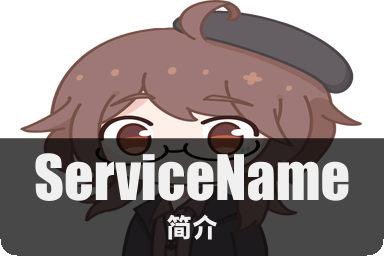
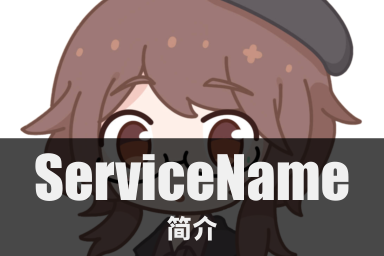
自适应比例

diff --git a/title.go b/title.go
@@ -4,7 +4,6 @@ import (
 	"image"
 
 	"github.com/FloatTech/gg"
-	"github.com/FloatTech/imgfactory"
 )
 
 // DrawTitle 绘制标题
@@ -24,7 +23,7 @@ func (t *Title) DrawTitle() (imgs image.Image, err error) {
 	canvas.SetRGBA255(0, 0, 0, 153)
 	canvas.Fill()
 
-	fontsize1, fontsize2 := 108.0+t.TitleFontOffsetPoint, 54.0+t.TextFontOffsetPoint
+	fontsize1, fontsize2, fontsize3 := 108.0+t.TitleFontOffsetPoint, 72+t.TextFontOffsetPoint, 54.0+t.TextFontOffsetPoint
 	// 加载size为108的字体
 	err = canvas.ParseFontFace(t.TitleFontData, fontsize1)
 	if err != nil {
@@ -33,37 +32,35 @@ func (t *Title) DrawTitle() (imgs image.Image, err error) {
 
 	// 绘制标题
 	canvas.SetRGBA255(250, 250, 250, 255)
-	stringwight, _ := canvas.MeasureString(t.LeftTitle)
-	canvas.DrawStringAnchored(t.LeftTitle, (220-(fontsize1+fontsize2)*72/96)*0.33+stringwight/2+t.OffsetX, 30+40+(220-(fontsize1+fontsize2)*72/96)*0.33+fontsize1*72/96*0.5+t.OffsetY, 0.5, 0.5)
+	canvas.DrawStringAnchored(t.LeftTitle, (220-fontsize1-fontsize3)/3+t.OffsetX, 30+40+(220-fontsize1-fontsize3)/3+fontsize1/2+t.OffsetY, 0, 0.5)
 
 	// 加载size为54的字体
-	err = canvas.ParseFontFace(t.TextFontData, fontsize2)
+	err = canvas.ParseFontFace(t.TextFontData, fontsize3)
 	if err != nil {
 		return
 	}
 
 	canvas.SetRGBA255(250, 250, 250, 255)
 	// 绘制副标题
-	stringwight, _ = canvas.MeasureString(t.LeftSubtitle)
-	canvas.DrawStringAnchored(t.LeftSubtitle, 3+(220-(fontsize1+fontsize2)*72/96)*0.33+stringwight/2+t.OffsetX, 30+40+(220-(fontsize1+fontsize2)*72/96)*0.66+fontsize1*72/96+fontsize2*72/96*0.5+t.OffsetY, 0.5, 0.5)
+	canvas.DrawStringAnchored(t.LeftSubtitle, 3+(220-fontsize1-fontsize3)/3+t.OffsetX, 30+40+(220-fontsize1-fontsize3)/3*2+fontsize1+fontsize3/2+t.OffsetY, 0, 0.5)
 
-	// 加载icon并绘制
-	var icon *imgfactory.Factory
-	icon, err = imgfactory.LoadFirstFrame(t.ImagePath, 220, 220)
+	// 加载icon并绘制 高限制220
+	var icon image.Image
+	icon, err = gg.LoadImage(t.ImagePath)
 	if err != nil {
 		return
 	}
-	canvas.DrawImage(icon.Image(), int(DefaultWidth)-icon.W(), 40+30)
+	sc := 220 / float64(icon.Bounds().Dy())
+	canvas.ScaleAbout(sc, sc, DefaultWidth-float64(icon.Bounds().Dx())*sc/2, 40+30+220/2)
+	canvas.DrawImageAnchored(icon, int(DefaultWidth)-int(float64(icon.Bounds().Dx())*sc/2), 40+30+220/2, 0.5, 0.5)
+	canvas.Identity()
 	// 加载size为72的字体
-	fontsize1 = 72 + t.TextFontOffsetPoint
-	err = canvas.ParseFontFace(t.TextFontData, fontsize1)
+	err = canvas.ParseFontFace(t.TextFontData, fontsize2)
 	if err != nil {
 		return
 	}
-	stringwight, _ = canvas.MeasureString(t.RightTitle)
-	canvas.DrawStringAnchored(t.RightTitle, DefaultWidth-25-float64(icon.W())-stringwight/2+t.OffsetX, 30+40+(220-fontsize1*72/96*2)*0.33+fontsize1*72/96*0.5+t.OffsetY, 0.5, 0.5)
-	stringwight, _ = canvas.MeasureString(t.RightSubtitle)
-	canvas.DrawStringAnchored(t.RightSubtitle, DefaultWidth-25-float64(icon.W())-stringwight/2+t.OffsetX, 30+40+(220-fontsize1*72/96*2)*0.66+fontsize1*72/96*1.5+t.OffsetY, 0.5, 0.5)
+	canvas.DrawStringAnchored(t.RightTitle, DefaultWidth-float64(icon.Bounds().Dx())*sc-25+t.OffsetX, 30+40+(220-fontsize2*2)/3+fontsize2/2+t.OffsetY, 1, 0.5)
+	canvas.DrawStringAnchored(t.RightSubtitle, DefaultWidth-float64(icon.Bounds().Dx())*sc-25+t.OffsetX, 30+40+(220-fontsize2*2)/3*2+fontsize2+fontsize2/2+t.OffsetY, 1, 0.5)
 
 	imgs = canvas.Image()
 	return
@@ -83,15 +80,24 @@ func (t *Title) DrawTitleWithText(info []string) (imgs image.Image, err error) {
 	canvas.Clear()
 
 	// 加载icon
-	var icon *imgfactory.Factory
-	icon, err = imgfactory.LoadFirstFrame(t.ImagePath, 512, 512)
+	var icon image.Image
+	icon, err = gg.LoadImage(t.ImagePath)
 	if err != nil {
 		return
 	}
-	canvas.DrawImage(icon.Image(), DefaultWidth-icon.W(), imgh-icon.H())
+	sc := 0.0
+	if float64(icon.Bounds().Dy())/float64(icon.Bounds().Dx()) > 1 {
+		sc = 512 / float64(icon.Bounds().Dy())
+	} else {
+		sc = DefaultWidth / 2 / float64(icon.Bounds().Dx())
+	}
+	canvas.ScaleAbout(sc, sc, float64(canvas.W()), float64(canvas.H()))
+	canvas.DrawImageAnchored(icon, canvas.W(), canvas.H(), 1, 1)
+	canvas.Identity()
 
 	// 加载size为108的字体
 	fontsize1, fontsize2 := 108.0+t.TitleFontOffsetPoint, 54.0+t.TextFontOffsetPoint
+	fsp1, fsp2 := fontsize1*72/96, fontsize2*72/96
 	err = canvas.ParseFontFace(t.TitleFontData, fontsize1)
 	if err != nil {
 		return
@@ -100,8 +106,7 @@ func (t *Title) DrawTitleWithText(info []string) (imgs image.Image, err error) {
 	canvas.SetRGBA255(15, 15, 15, 255)
 
 	// 绘制标题
-	stringwight, _ := canvas.MeasureString(t.LeftTitle)
-	canvas.DrawStringAnchored(t.LeftTitle, 25+stringwight/2+t.OffsetX, 25+fontsize1*72/96*0.5+t.OffsetY, 0.5, 0.5)
+	canvas.DrawStringAnchored(t.LeftTitle, 25+t.OffsetX, 25+fsp1/2+t.OffsetY, 0, 0.5)
 
 	// 加载size为54的字体
 	err = canvas.ParseFontFace(t.TextFontData, fontsize2)
@@ -110,10 +115,9 @@ func (t *Title) DrawTitleWithText(info []string) (imgs image.Image, err error) {
 	}
 
 	// 绘制一系列标题
-	stringwight, _ = canvas.MeasureString(t.LeftSubtitle)
-	canvas.DrawStringAnchored(t.LeftSubtitle, 25+3+stringwight/2+t.OffsetX, 25+fontsize1*72/96+25+fontsize2*72/96*0.5+t.OffsetY, 0.5, 0.5)
-
-	canvas.DrawRectangle(25+3+t.OffsetX, 25+fontsize1*72/96+25+fontsize2*72/96+7+t.OffsetY, stringwight, 6)
+	canvas.DrawStringAnchored(t.LeftSubtitle, 25+3+t.OffsetX, 25+fsp1+25+fsp2/2+t.OffsetY, 0, 0.5)
+	stringwight, _ := canvas.MeasureString(t.LeftSubtitle)
+	canvas.DrawRectangle(25+3+t.OffsetX, 25+fsp1+25+fsp2+7+t.OffsetY, stringwight, 6)
 	// 绘制插件开启状态
 	if t.IsEnabled {
 		canvas.SetRGBA255(35, 235, 35, 255)
@@ -129,10 +133,8 @@ func (t *Title) DrawTitleWithText(info []string) (imgs image.Image, err error) {
 		return
 	}
 
-	stringwight, _ = canvas.MeasureString(t.RightTitle)
-	canvas.DrawStringAnchored(t.RightTitle, DefaultWidth-40-stringwight/2+t.OffsetX, 40+fontsize2*72/96*0.5+t.OffsetY, 0.5, 0.5)
-	stringwight, _ = canvas.MeasureString(t.RightSubtitle)
-	canvas.DrawStringAnchored(t.RightSubtitle, DefaultWidth-40-stringwight/2+t.OffsetX, 40+25+fontsize2*72/96*1.5+t.OffsetY, 0.5, 0.5)
+	canvas.DrawStringAnchored(t.RightTitle, DefaultWidth-40+t.OffsetX, 40+fsp2/2+t.OffsetY, 1, 0.5)
+	canvas.DrawStringAnchored(t.RightSubtitle, DefaultWidth-40+t.OffsetX, 40+fsp2+25+fsp2/2+t.OffsetY, 1, 0.5)
 
 	// 加载size为38的字体
 	err = canvas.ParseFontFace(t.TextFontData, 38+t.TextFontOffsetPoint)
@@ -140,7 +142,7 @@ func (t *Title) DrawTitleWithText(info []string) (imgs image.Image, err error) {
 		return
 	}
 
-	y := 25 + fontsize1*72/96 + 25 + fontsize2*72/96
+	y := 25 + fsp1 + 25 + fsp2
 	for _, text := range info {
 		canvas.DrawString(text, 25.0, y+canvas.FontHeight()*2)
 		y += 20 + canvas.FontHeight()
@@ -154,14 +156,21 @@ func (t *Title) DrawCard() (imgs image.Image, err error) {
 	recw, rech := 384.0, 256.0
 	canvas := gg.NewContext(int(recw), int(rech))
 	// 绘制图片
-	var banner *imgfactory.Factory
-	banner, err = imgfactory.LoadFirstFrame(t.ImagePath, int(recw)*2, int(rech)*2)
+	var banner image.Image
+	banner, err = gg.LoadImage(t.ImagePath)
 	if err == nil {
-		canvas.DrawImage(imgfactory.Size(banner.Image(), int(recw), int(rech)).Image(), 0, 0)
+		sc := 0.0
+		if float64(banner.Bounds().Dy())/float64(banner.Bounds().Dx()) < rech/recw {
+			sc = rech / float64(banner.Bounds().Dy())
+		} else {
+			sc = recw / float64(banner.Bounds().Dx())
+		}
+		canvas.ScaleAbout(sc, sc, recw/2, rech/2)
+		canvas.DrawImageAnchored(banner, int(recw)/2, int(rech)/2, 0.5, 0.5)
+		canvas.Identity()
 	} else {
-		canvas.DrawRectangle(0, 0, recw, rech)
 		canvas.SetRGB255(RandJPColor())
-		canvas.Fill()
+		canvas.Clear()
 	}
 	if t.IsEnabled {
 		canvas.DrawRectangle(0, rech*0.54, recw, rech-rech*0.54)
@@ -174,17 +183,18 @@ func (t *Title) DrawCard() (imgs image.Image, err error) {
 	// 绘制插件信息
 	canvas.SetRGBA255(240, 240, 240, 255)
 	fontsize1, fontsize2 := 64.0+t.TitleFontOffsetPoint, 32.0+t.TextFontOffsetPoint
+	fsp1, fsp2 := fontsize1*72/96, fontsize2*72/96
 	err = canvas.ParseFontFace(t.TitleFontData, fontsize1)
 	if err != nil {
 		return
 	}
-	canvas.DrawStringAnchored(t.LeftTitle, recw/2+t.OffsetX, rech*0.54+(rech-rech*0.54-(fontsize1+fontsize2)*72/96)*0.33+fontsize1*72/96*0.5+t.OffsetY, 0.5, 0.5)
+	canvas.DrawStringAnchored(t.LeftTitle, recw/2+t.OffsetX, rech*0.54+(rech-rech*0.54-(fsp1+fsp2))/3+fsp1/2+t.OffsetY, 0.5, 0.5)
 
 	err = canvas.ParseFontFace(t.TextFontData, fontsize2)
 	if err != nil {
 		return
 	}
-	canvas.DrawStringAnchored(t.LeftSubtitle, recw/2+t.OffsetX, rech*0.54+(rech-rech*0.54-(fontsize1+fontsize2)*72/96)*0.66+fontsize1*72/96+fontsize2*72/96*0.5+t.OffsetY, 0.5, 0.5)
+	canvas.DrawStringAnchored(t.LeftSubtitle, recw/2+t.OffsetX, rech*0.54+(rech-rech*0.54-(fsp1+fsp2))/3*2+fsp1+fsp2/2+t.OffsetY, 0.5, 0.5)
 
 	imgs = canvas.Image()
 	return

diff --git a/utils.go b/utils.go
@@ -9,24 +9,12 @@ import (
 )
 
 // Fillet 将矩形图片裁切为圆角矩形
-func Fillet(dst image.Image, r int) image.Image {
-	dstr := gg.ImageToNRGBA(dst)
-	mx, my := dst.Bounds().Max.X, dst.Bounds().Max.Y
-	var xx, yy, rr float64
-	for y := 0; y < my/2; y++ {
-		for x := 0; x < mx/2; x++ {
-			if x <= r && y <= r {
-				xx, yy, rr = float64(r-x), float64(y-r), float64(r)
-				if xx*xx+yy*yy >= rr*rr {
-					dstr.Set(x, y, color.NRGBA{})
-					dstr.Set(mx-1-x, y, color.NRGBA{})
-					dstr.Set(x, my-1-y, color.NRGBA{})
-					dstr.Set(mx-1-x, my-1-y, color.NRGBA{})
-				}
-			}
-		}
-	}
-	return dstr
+func Fillet(dst image.Image, r float64) image.Image {
+	canvas := gg.NewContext(dst.Bounds().Dx(), dst.Bounds().Dy())
+	canvas.DrawRoundedRectangle(0, 0, float64(dst.Bounds().Dx()), float64(dst.Bounds().Dy()), r)
+	canvas.Clip()
+	canvas.DrawImage(dst, 0, 0)
+	return canvas.Image()
 }
 
 // Transparency 更改透明度 magnification 倍率值

diff --git a/title_test.go b/title_test.go
@@ -42,7 +42,7 @@ func TestDrawTitle(t *testing.T) {
 	if err != nil {
 		t.Fatal(err)
 	}
-	assert.Equal(t, "28f9f68f3ef7987a9d189b52b9a8b399", hex.EncodeToString(h.Sum(nil)))
+	assert.Equal(t, "5450734a22186aa176387ff2a91d9a7e", hex.EncodeToString(h.Sum(nil)))
 }
 
 func TestDrawTitleWithText(t *testing.T) {
@@ -77,7 +77,7 @@ func TestDrawTitleWithText(t *testing.T) {
 	if err != nil {
 		t.Fatal(err)
 	}
-	assert.Equal(t, "bf5ce310c0a565477fa83904a506c08d", hex.EncodeToString(h.Sum(nil)))
+	assert.Equal(t, "49c0bb06f1b8e16833e73d2bdcbe01ce", hex.EncodeToString(h.Sum(nil)))
 }
 
 func TestDrawCard(t *testing.T) {
@@ -112,5 +112,5 @@ func TestDrawCard(t *testing.T) {
 	if err != nil {
 		t.Fatal(err)
 	}
-	assert.Equal(t, "4e1b4c439a78d833b0931655d736b02f", hex.EncodeToString(h.Sum(nil)))
+	assert.Equal(t, "deba289674306c6d674c0c07f6ae458c", hex.EncodeToString(h.Sum(nil)))
 }
